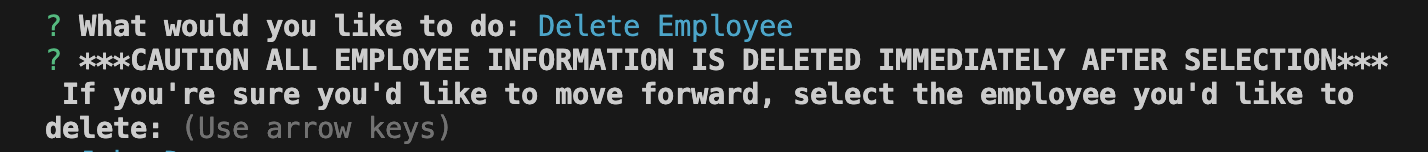
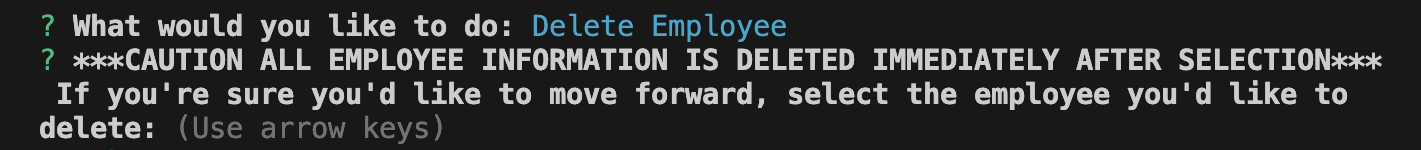
Updated README to include deletion message

diff --git a/README.md b/README.md
@@ -37,11 +37,16 @@ https://github.com/samanthashleyrose/Employee-Tracker/assets/142939966/4f93530b-
 
 ## Features
 
-**Database Integration:** Utilizing the power of MySQL, this application connects to your company's database, allowing you to perform CRUD (Create, Read, Update, Delete) operations on employee records with ease.
 
 **Employee Management:** Efficiently add new employees, view existing employee details, and update information.
 
 **Department and Role Management:** Organize your workforce by managing departments and roles effortlessly. Add new departments, create roles, and associate employees with specific roles.
+
+**Database Integration:** Utilizing the power of MySQL, this application connects to your company's database, allowing you to perform CRUD (Create, Read, Update, Delete) operations on employee records with ease.
+
+** **PROCEED WITH CAUTION WHEN DELETING AN EMPLOYEE** **
+![Employee Deletion Message](./assets/imgs/del-employee-message.png)
+
 
 ## How to Contribute
 
